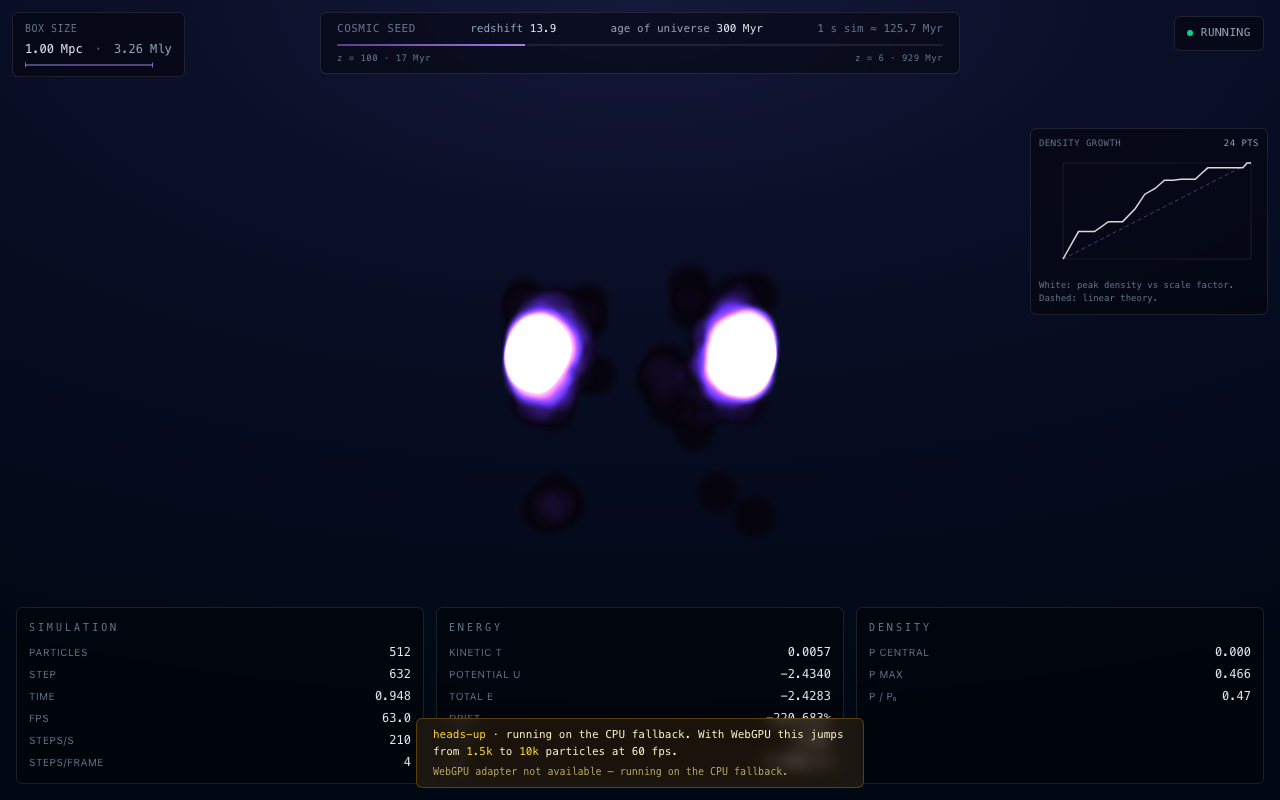
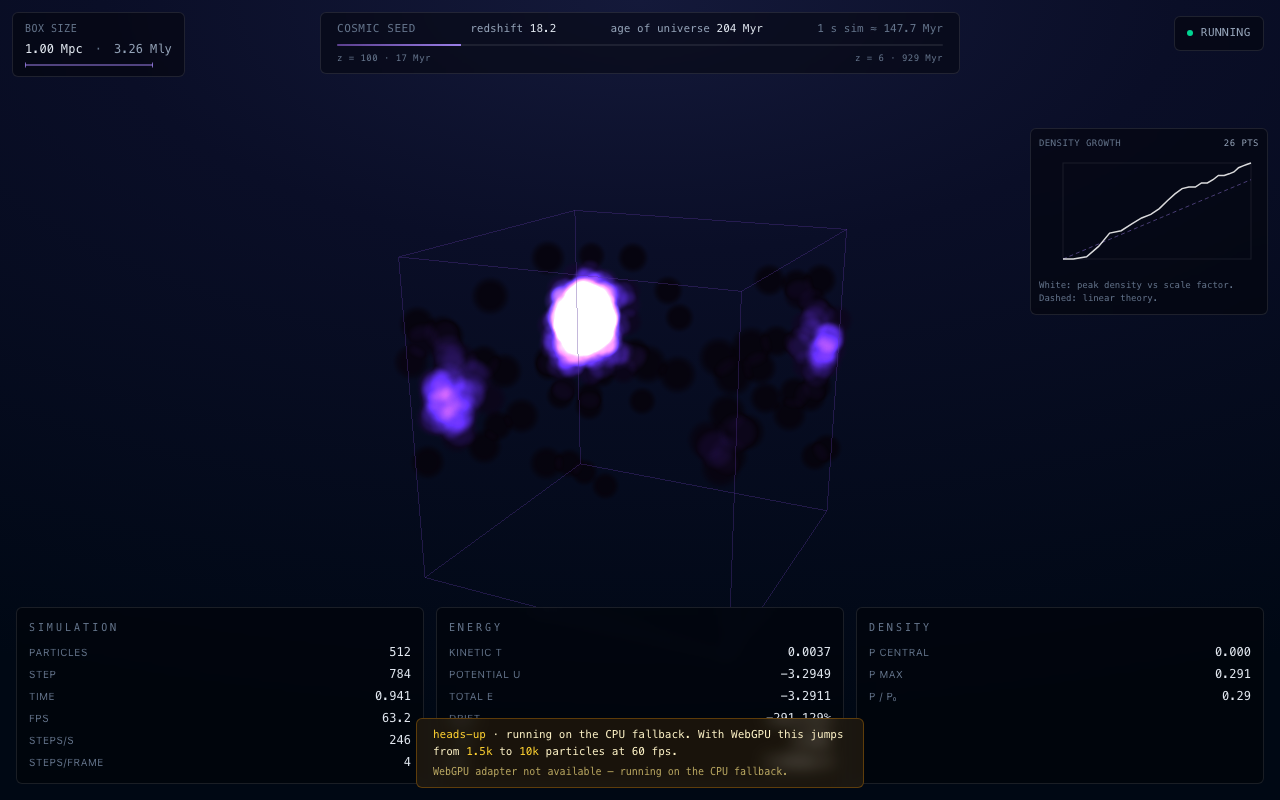
polish(visual): wireframe box + tilted camera + tighter particle render
User feedback: the cosmological-mode visual felt "сжатый" — like a
flat square with a few smudges, not like a 3-D simulation. Six
changes that together make it actually feel like a sim:

1. Wireframe periodic box (src/rendering/box-frame.ts). A faint
   violet cube around the simulation marks the periodic boundary
   explicitly — particles wrapping at edges no longer look like
   they're hitting a wall, the user can see "this is the volume".

2. 3-D-tilted camera. Default position moved from (0,0,4) to
   (1.6, 1.0, 2.4) so the box reads as a cube, not a square.

3. Slow auto-orbit. OrbitControls.autoRotate at 0.45 rad/s
   (~ 1 rev / 90 s). The scene feels alive even when the user
   isn't dragging; pauses while dragging via the standard control.

4. Tighter particle render. uPointSize 220 → 110 and
   densityKernelRadius 0.10 → 0.06 (GPU) so haloes don't smudge
   into one another and individual particles are visible.

5. Larger grid. GPU 16³ → 20³ = 8000 particles. Still well below
   the compositor-starvation threshold from Stage 1c, but a real
   step up in field richness.

6. Tamer σ_8 (0.811 → 0.5) for the IC. The fiducial Planck value
   collapses our 1-Mpc box into one dominant halo too quickly. 0.5
   keeps the run in the visually-rewarding linear → mildly nonlinear
   regime longer. dtMyr 0.4 → 0.2 doubles the time the eye has to
   track each phase.

Test totals unchanged (68 unit + 2 e2e green). Build 754 KB / 204 KB.
Visual checkpoint refreshed.

diff --git a/src/ui/SimulationCanvas.tsx b/src/ui/SimulationCanvas.tsx
@@ -1,5 +1,6 @@
 import { useEffect, useRef } from 'react';
 import { createScene } from '@rendering/scene';
+import { createBoxFrame } from '@rendering/box-frame';
 import { createParticleCloud, type ParticleCloud } from '@rendering/particle-cloud';
 import { createLoop } from '@rendering/loop';
 import { initWebGpu } from '@rendering/gpu/device';
@@ -24,23 +25,25 @@ const HUD_REFRESH_HZ = 10;
 const HUD_REFRESH_INTERVAL_MS = 1000 / HUD_REFRESH_HZ;
 
 // Stage 2c2 — cosmological mode by default: Zeldovich IC, periodic
-// min-image gravity, comoving leapfrog with 1/a² drift scale. Particle
-// count is the cube of the Zeldovich grid resolution; we pick 16 → 4096
-// for GPU and 8 → 512 for CPU.
-const GPU_GRID = 16;
+// min-image gravity, comoving leapfrog with 1/a² drift scale.
+// User-experience tuning (post 2c3 polish):
+//   * grid 20³ on GPU = 8 000 particles (richer field, still well below the
+//     compositor-starvation threshold from Stage 1c).
+//   * lower σ_8 so the field stays in a visually-rewarding linear → mildly
+//     nonlinear regime instead of collapsing to a single dominant halo.
+//   * tighter density kernel + smaller point sprites so individual halos
+//     are crisp instead of merging into puffs.
+//   * slower dtMyr so the eye can follow the structure-formation arc.
+const GPU_GRID = 20;
 const GPU_CONFIG: SimulationConfig = {
   ...DEFAULT_CONFIG,
   count: GPU_GRID ** 3,
   cosmologicalMode: true,
-  // Box size 1 in code units; particles centred on cells of L/N. Mean
-  // inter-particle separation = L/N = 1/16 = 0.0625.
   boxHalfExtent: 0.5,
-  softening: 0.025,
-  densityKernelRadius: 0.1,
-  // Slow the integrator down a bit so the cosmic-web evolution is visible
-  // before particles fly across the box.
-  dt: 1.5e-3,
-  dtMyr: 0.4,
+  softening: 0.018,
+  densityKernelRadius: 0.06,
+  dt: 1.2e-3,
+  dtMyr: 0.2,
   zInit: redshift(50),
 };
 
@@ -51,15 +54,17 @@ const CPU_CONFIG: SimulationConfig = {
   cosmologicalMode: true,
   boxHalfExtent: 0.5,
   softening: 0.05,
-  densityKernelRadius: 0.18,
-  dt: 1.5e-3,
-  dtMyr: 0.4,
+  densityKernelRadius: 0.16,
+  dt: 1.2e-3,
+  dtMyr: 0.2,
   zInit: redshift(50),
 };
 
+const TAMED_PS = { ...PLANCK_2018_PS, sigma8: 0.5 };
+
 const ZELDOVICH_PARAMS_GPU = {
   cosmology: PLANCK_2018,
-  powerSpectrum: PLANCK_2018_PS,
+  powerSpectrum: TAMED_PS,
   seed: 42,
   gridN: GPU_GRID,
   boxSizeMpcH: 1.0,
@@ -122,6 +127,8 @@ export function SimulationCanvas(): React.JSX.Element {
       const scene = createScene(canvas);
       const cloud: ParticleCloud = createParticleCloud(runner.count, window.devicePixelRatio);
       scene.scene.add(cloud.object);
+      const boxFrame = config.cosmologicalMode ? createBoxFrame(config.boxHalfExtent) : null;
+      if (boxFrame !== null) scene.scene.add(boxFrame.object);
 
       const store = useSimulationStore.getState();
       store.setParticleCount(runner.count);
@@ -197,6 +204,7 @@ export function SimulationCanvas(): React.JSX.Element {
         useSimulationStore.getState().setRunning(false);
         window.removeEventListener('resize', handleResize);
         cloud.dispose();
+        boxFrame?.dispose();
         scene.dispose();
         runner.destroy();
         gpuCtx?.destroy();

diff --git a/src/rendering/box-frame.ts b/src/rendering/box-frame.ts
@@ -1,0 +1,38 @@
+import * as THREE from 'three';
+
+// Thin wireframe cube + faint corner ticks marking the periodic-box
+// boundary. Without it the box looks like a hard wall; with it the user
+// can see what is the simulation volume vs what's empty.
+
+export interface BoxFrame {
+  readonly object: THREE.Object3D;
+  dispose(): void;
+}
+
+export function createBoxFrame(halfExtent: number, color = '#5b3f8e'): BoxFrame {
+  const root = new THREE.Group();
+  const L = 2 * halfExtent;
+  const c = new THREE.Color(color);
+
+  // Edges: BoxGeometry → EdgesGeometry → LineSegments. Restrained alpha so
+  // the wireframe doesn't fight the particle cloud for attention.
+  const box = new THREE.BoxGeometry(L, L, L);
+  const edges = new THREE.EdgesGeometry(box);
+  const lineMat = new THREE.LineBasicMaterial({
+    color: c,
+    transparent: true,
+    opacity: 0.35,
+    depthWrite: false,
+  });
+  const lines = new THREE.LineSegments(edges, lineMat);
+  root.add(lines);
+  box.dispose();
+
+  return {
+    object: root,
+    dispose(): void {
+      edges.dispose();
+      lineMat.dispose();
+    },
+  };
+}

diff --git a/src/rendering/scene.ts b/src/rendering/scene.ts
@@ -25,7 +25,8 @@ export function createScene(canvas: HTMLCanvasElement): SceneHandle {
   const scene = new THREE.Scene();
 
   const camera = new THREE.PerspectiveCamera(45, 1, 0.01, 1000);
-  camera.position.set(0, 0, 4);
+  // Slight 3D-tilt so the box doesn't look like a flat square.
+  camera.position.set(1.6, 1.0, 2.4);
   camera.lookAt(0, 0, 0);
 
   const controls = new OrbitControls(camera, canvas);
@@ -36,6 +37,11 @@ export function createScene(canvas: HTMLCanvasElement): SceneHandle {
   controls.rotateSpeed = 0.6;
   controls.zoomSpeed = 0.8;
   controls.enablePan = false;
+  // Gentle auto-orbit so the scene feels alive even when the user isn't
+  // dragging. Disabled the moment user interacts; OrbitControls re-enables
+  // it after `autoRotateDelay` ms of idle (which we keep at the default).
+  controls.autoRotate = true;
+  controls.autoRotateSpeed = 0.45; // ≈ 1 rev / 90 s
 
   const resize = (width: number, height: number, dpr: number): void => {
     renderer.setPixelRatio(Math.min(dpr, 2));

diff --git a/src/rendering/particle-cloud.ts b/src/rendering/particle-cloud.ts
@@ -76,7 +76,7 @@ export function createParticleCloud(count: number, dpr: number): ParticleCloud {
     vertexShader: VERT_SHADER,
     fragmentShader: FRAG_SHADER,
     uniforms: {
-      uPointSize: { value: 220.0 },
+      uPointSize: { value: 110.0 },
       uPixelRatio: { value: Math.min(dpr, 2) },
       uColorLo: { value: new THREE.Color('#2a1b3d') },
       uColorMid: { value: new THREE.Color('#5b3f8e') },
